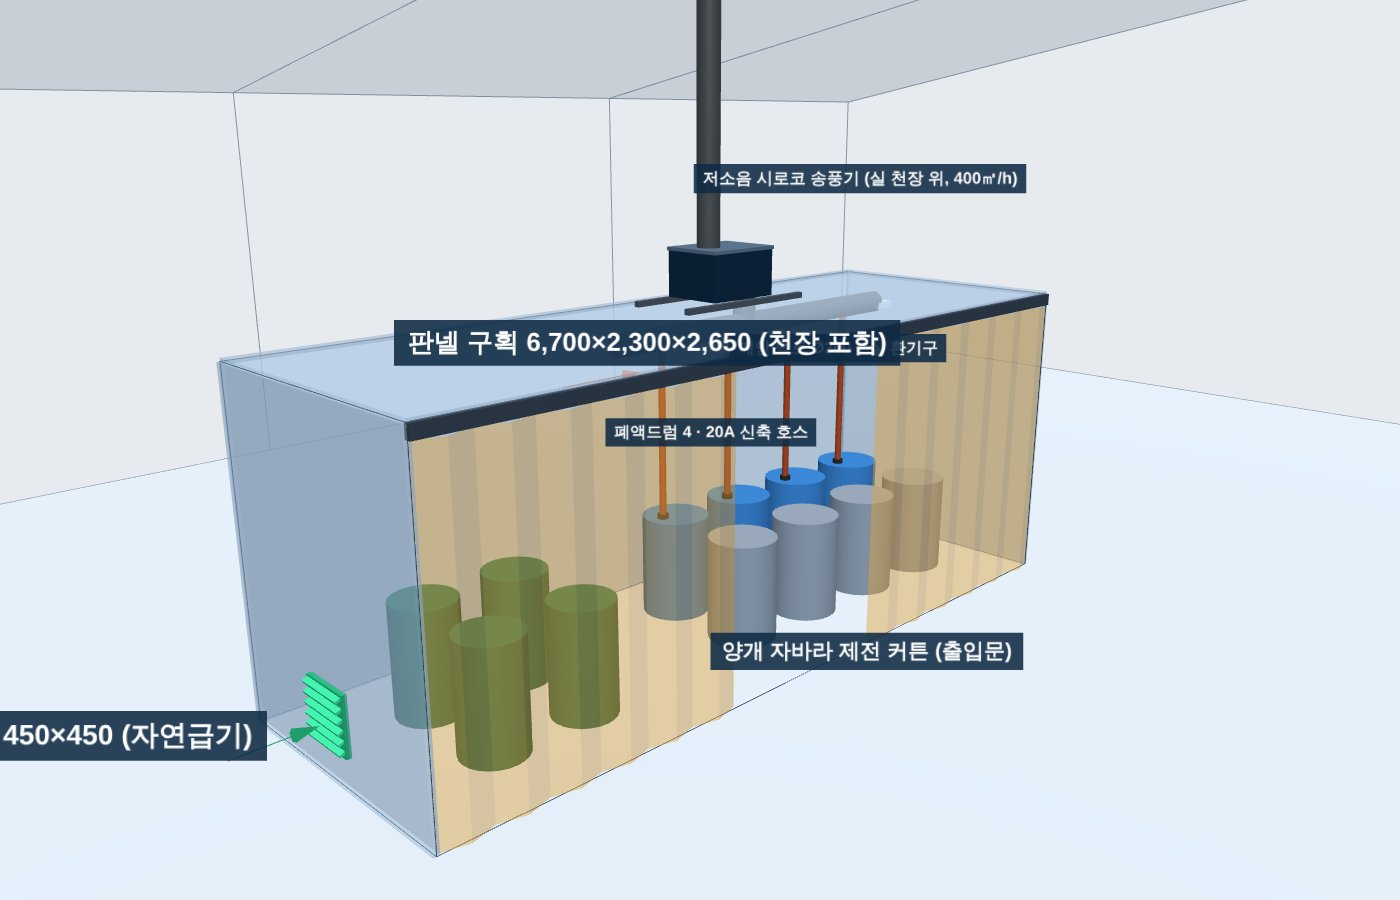
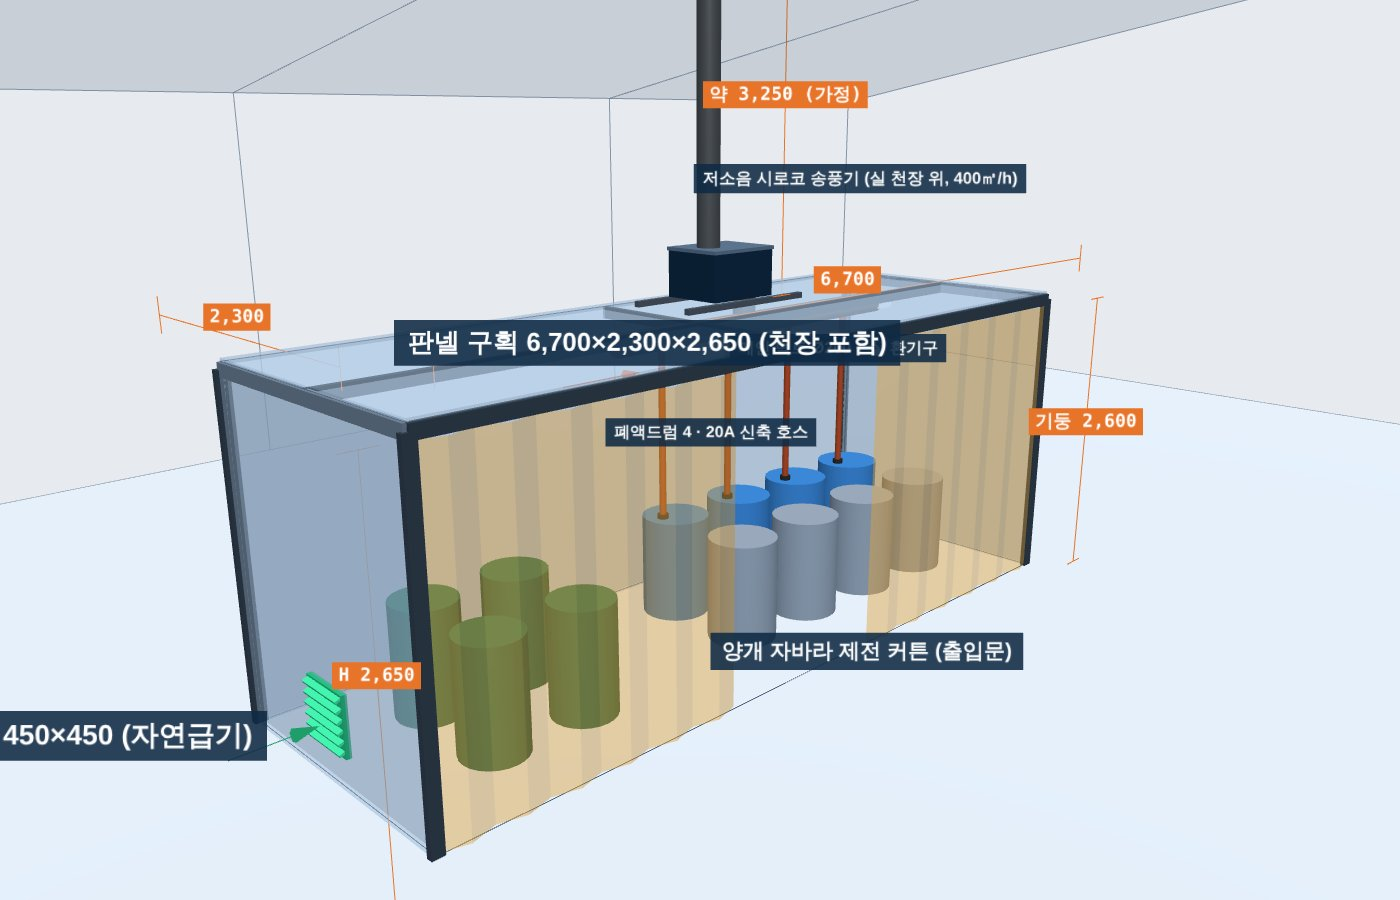
에어레인 3D: 각파이프 골조와 치수(mm) 표시 추가
Claude-Session: https://claude.ai/code/session_01MdRgMemsaVEpesQwC6T5WE

diff --git a/public/client-assets/airrane/3d.html b/public/client-assets/airrane/3d.html
@@ -71,11 +71,14 @@ button:focus-visible{outline:2px solid var(--accent);outline-offset:2px}
         <button class="opt" data-v="side">측면(지붕 단면)</button>
         <button class="opt" id="lbls" aria-pressed="true">설비명</button>
         <button class="opt" id="bldg" aria-pressed="true">건물</button>
+        <button class="opt" id="dimb" aria-pressed="true">치수</button>
       </div>
     </div>
     <div class="legend">
       <span><i style="background:#9FB3C8"></i>판넬 50T 준불연 우레탄</span>
       <span><i style="background:#E8A23A"></i>제전 커튼</span>
+      <span><i style="background:#4A5D72"></i>각파이프 □100×50</span>
+      <span><i style="background:#E8742A"></i>치수(mm)</span>
       <span><i style="background:var(--air)"></i>급기</span>
       <span><i style="background:var(--exh)"></i>배기</span>
     </div>
@@ -131,7 +134,11 @@ room.add(box(W,H,T,pMat,0,H/2,hd));           // 뒤
 room.add(box(W,T,D,pMat,0,H,0));              // 천장
 room.add(new THREE.LineSegments(new THREE.EdgesGeometry(new THREE.BoxGeometry(W,H,D)),new THREE.LineBasicMaterial({color:0x0f2a44}))).children;
 room.children[room.children.length-1].position.set(0,H/2,0);
-room.add(box(W,0.1,0.05,M(0x4a5d72,{metalness:.5}),0,H-0.05,-hd)); // 전면 헤더
+// 각파이프 □100×50 골조: 기둥 4, 길이방향 보 2(커튼 자리·천장 가운데), 폭방향 보 3
+const stMat=M(0x4a5d72,{metalness:.5,roughness:.4});
+[[-hw,-hd],[hw,-hd],[-hw,hd],[hw,hd]].forEach(([x,z])=>room.add(box(0.1,2.6,0.05,stMat,x,1.3,z)));
+[-hd,0].forEach(z=>room.add(box(W,0.1,0.05,stMat,0,H-0.05,z)));
+[-hw,0,hw].forEach(x=>room.add(box(0.05,0.1,D,stMat,x,H-0.05,0)));
 // 커튼(양개, 반쯤 열림)
 const cMat=M(0xe8a23a,{transparent:true,opacity:.45,side:THREE.DoubleSide,depthWrite:false});
 const gap=1.6,sideW=(W-gap)/2,n=12,pw=sideW/n;
@@ -206,12 +213,32 @@ tag('양개 자바라 제전 커튼 (출입문)',0,0.4,-hd-0.6);
 tag('ㅅ자 판넬 지붕 · 최고 6m',BL/2-4,RIDGE+0.4,0);
 scene.add(labels);
 
+// 치수
+const dims=new THREE.Group();
+const dimMat=new THREE.LineBasicMaterial({color:0xE8742A,depthTest:false});
+function dimLabel(txt,x,y,z){const c=document.createElement('canvas'),g=c.getContext('2d');const f='700 28px "IBM Plex Mono", monospace';g.font=f;const w=g.measureText(txt).width+20;c.width=w;c.height=42;g.fillStyle='#E8742A';g.fillRect(0,0,w,42);g.fillStyle='#fff';g.font=f;g.textBaseline='middle';g.fillText(txt,10,22);
+ const sp=new THREE.Sprite(new THREE.SpriteMaterial({map:new THREE.CanvasTexture(c),depthTest:false,sizeAttenuation:false}));sp.scale.set(w*0.00055,42*0.00055,1);sp.position.set(x,y,z);sp.renderOrder=12;dims.add(sp);}
+function dim(a,b,tick,txt){const A=new THREE.Vector3(...a),B=new THREE.Vector3(...b),T=new THREE.Vector3(...tick).multiplyScalar(0.12);
+ const pts=[A,B,A.clone().add(T),A.clone().sub(T),B.clone().add(T),B.clone().sub(T)];
+ const l=new THREE.LineSegments(new THREE.BufferGeometry().setFromPoints(pts),dimMat);l.renderOrder=11;dims.add(l);
+ const m=A.clone().add(B).multiplyScalar(0.5);dimLabel(txt,m.x,m.y+0.12,m.z);}
+dim([-hw,H+0.35,-hd-0.3],[hw,H+0.35,-hd-0.3],[0,1,0],'6,700');
+dim([hw+0.35,H+0.35,-hd],[hw+0.35,H+0.35,hd],[0,1,0],'2,300');
+dim([hw+0.45,0,-hd-0.3],[hw+0.45,H,-hd-0.3],[1,0,0],'H 2,650');
+dim([-hw-0.4,0,-hd-0.3],[-hw-0.4,2.6,-hd-0.3],[1,0,0],'기둥 2,600');
+dim([rx-0.5,H,rz],[rx-0.5,ry,rz],[1,0,0],'약 '+(Math.round((ry-H)*20)*50).toLocaleString()+' (가정)');
+dim([BL/2+0.6,0,0],[BL/2+0.6,RIDGE,0],[0,0,1],'최고 6,000');
+dim([BL/2+0.6,0,-BW/2],[BL/2+0.6,EAVE,-BW/2],[0,0,1],'처마 4,500 (가정)');
+scene.add(dims);
+
+
 // 보기
 const VIEWS={'3d':[[13,10,-14],[0,2.6,0]],room:[[6.5,4.2,-6.5],[0,1.6,0]],front:[[0,2.2,-11],[0,2.4,0]],side:[[16,3.5,0.01],[0,3,0]]};
 function view(v){const [p,t]=VIEWS[v];camera.position.set(...p);controls.target.set(...t);controls.update();}
 document.querySelectorAll('[data-v]').forEach(b=>b.onclick=()=>view(b.dataset.v));
 view(innerWidth<700?'room':'3d');
 const lb=document.getElementById('lbls');lb.onclick=()=>{labels.visible=!labels.visible;lb.setAttribute('aria-pressed',labels.visible);};
+const db=document.getElementById('dimb');db.onclick=()=>{dims.visible=!dims.visible;db.setAttribute('aria-pressed',dims.visible);};
 const bb=document.getElementById('bldg');bb.onclick=()=>{bldg.visible=!bldg.visible;bb.setAttribute('aria-pressed',bldg.visible);};
 const tg=document.getElementById('toggle'),pb=document.getElementById('pbody');
 tg.onclick=()=>{pb.hidden=!pb.hidden;tg.textContent=pb.hidden?'펼치기':'접기';tg.setAttribute('aria-expanded',!pb.hidden);};
